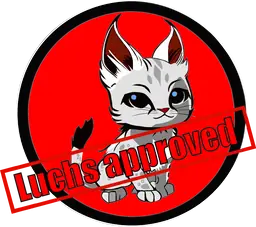
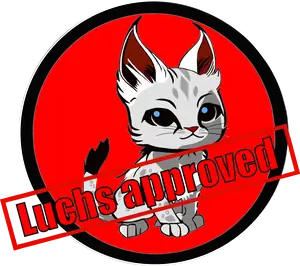
Luchs sticker: bigger, upright and in a box of its own

diff --git a/frontend/src/features/settings/SettingsDialog.tsx b/frontend/src/features/settings/SettingsDialog.tsx
@@ -285,7 +285,9 @@ export function SettingsDialog({ open, onClose, section }: { open: boolean; onCl
               </div>
               <SaveRow dirty={dirty(...GENERAL)} onSave={() => save(GENERAL)} />
               <div className="flex justify-end">
-                <img src={luchsApproved} alt={t("settings.luchsApproved")} width={68} draggable={false} className="pointer-events-none w-[68px] rotate-[9deg] select-none" />
+                <div className="rounded-lg border border-line bg-sunk p-4">
+                  <img src={luchsApproved} alt={t("settings.luchsApproved")} width={150} draggable={false} className="pointer-events-none w-[150px] -rotate-3 select-none" />
+                </div>
               </div>
             </div>
           ),
